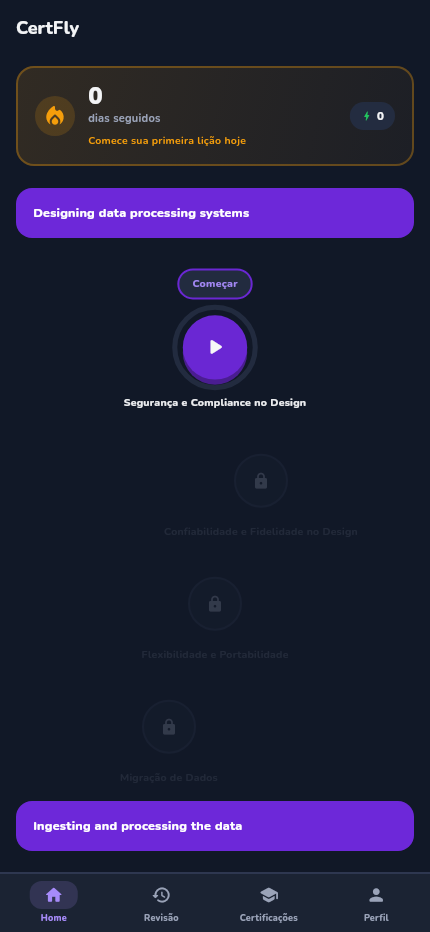
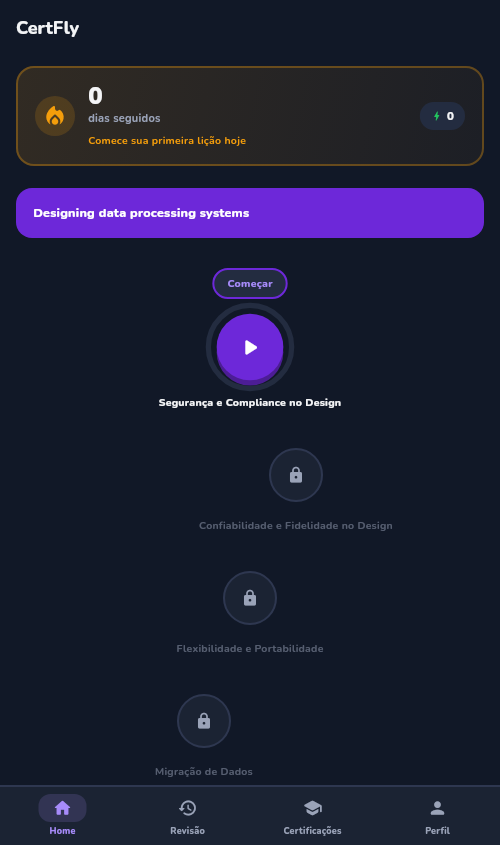
docs: melhora README com mais screenshots e storytelling
Adiciona print da tela de Perfil ao lado da trilha, em layout lado
a lado (tabela) pra usar melhor o espaço horizontal, com texto de
storytelling específico pra cada tela.

Claude-Session: https://claude.ai/code/session_01GmfPL3k7Nu5uMM2w2gY7MZ

diff --git a/README.md b/README.md
@@ -4,6 +4,33 @@
 
 Side project solo. O backend (motor de regras + API) está funcional e testado ponta a ponta contra SQLite local; falta conteúdo real (questões), conectar a um Supabase de verdade e o frontend Flutter.
 
+## Como é usar
+
+<table>
+<tr>
+<td width="50%" align="center">
+<img src="docs/screenshots/track-screen.png" alt="Trilha de tópicos do CertFly, com streak, XP e domínios bloqueados até o mastery liberar" width="100%" />
+</td>
+<td width="50%" align="center">
+<img src="docs/screenshots/profile-screen.png" alt="Tela de perfil do CertFly, com XP total, streak, certificação ativa e preferências de estudo" width="100%" />
+</td>
+</tr>
+<tr>
+<td valign="top">
+
+**Trilha da certificação.** Cada certificação vira uma trilha vertical de domínios e tópicos, no espírito do Duolingo pra idiomas. No topo, o streak do dia e o XP acumulado — o motor de hábito que sustenta a proposta do produto. Abaixo, os tópicos em sequência: o próximo já liberado com um "Começar", os seguintes bloqueados (🔒) até o motor de mastery confirmar 80% de domínio no tópico anterior — gate de desbloqueio validado no servidor, não só decorativo na tela.
+
+</td>
+<td valign="top">
+
+**Perfil.** XP total e streak consolidados, a certificação ativa (com opção de trocar entre as 3 clouds) e as preferências de estudo — onde entram lembretes e cadência da repetição espaçada. É o hub que fecha o loop de hábito iniciado na trilha.
+
+</td>
+</tr>
+</table>
+
+*Prints de um build local (Flutter Web + API FastAPI local, SQLite, sem Supabase real) — ver [Rodando o backend localmente](#rodando-o-backend-localmente) pra reproduzir.*
+
 ## Status atual (2026-08-09)
 
 | Etapa | Status |
@@ -22,12 +49,6 @@ Side project solo. O backend (motor de regras + API) está funcional e testado p
 | Conteúdo real — Azure Data Engineer Associate (DP-203) | ⏳ não iniciado |
 | Supabase real conectado (hoje roda em SQLite local) | ⏳ próximo passo |
 | Frontend Flutter | ✅ telas do core loop implementadas (dev target Linux); protótipo visual das 10 telas completo |
-
-## Screenshots
-
-<img src="docs/screenshots/track-screen.png" alt="Trilha de tópicos do CertFly (Flutter Web, build local)" width="320" />
-
-*Trilha de tópicos rodando localmente (Flutter Web + backend FastAPI local, sem Supabase real).*
 
 ## Contexto
 
